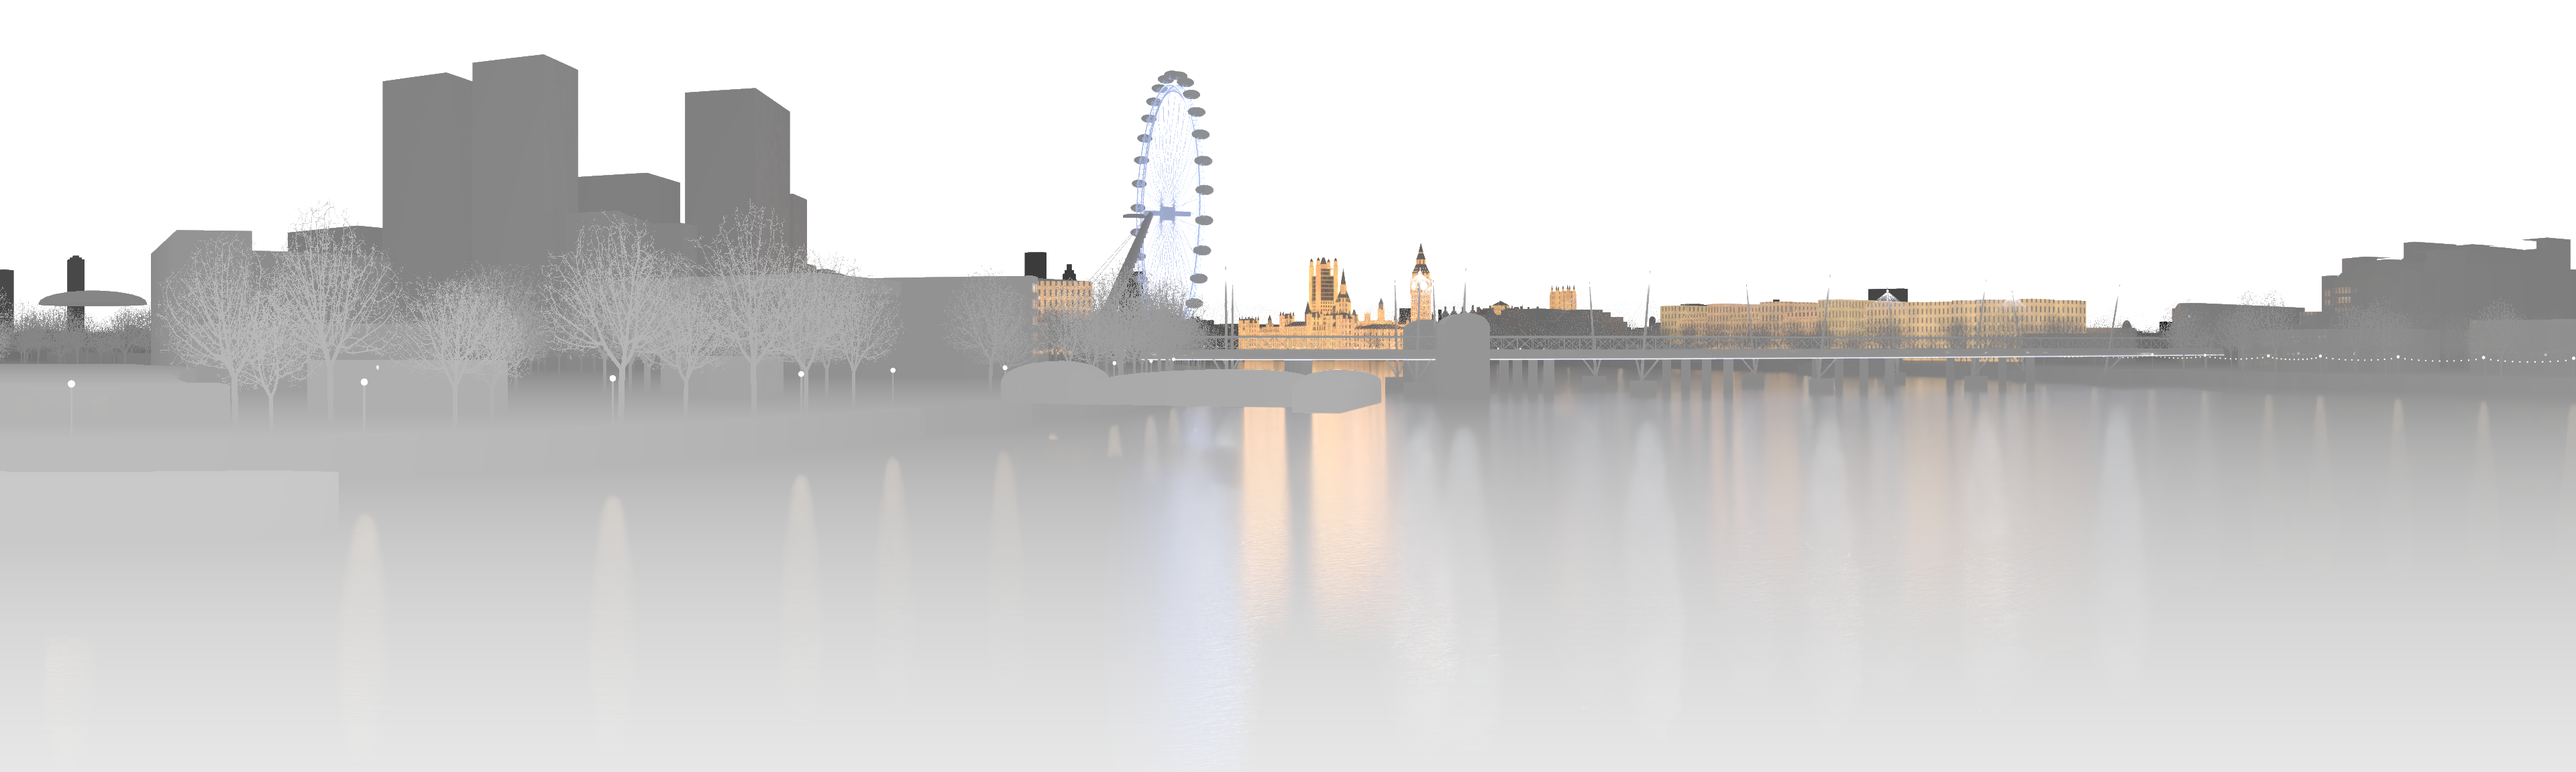
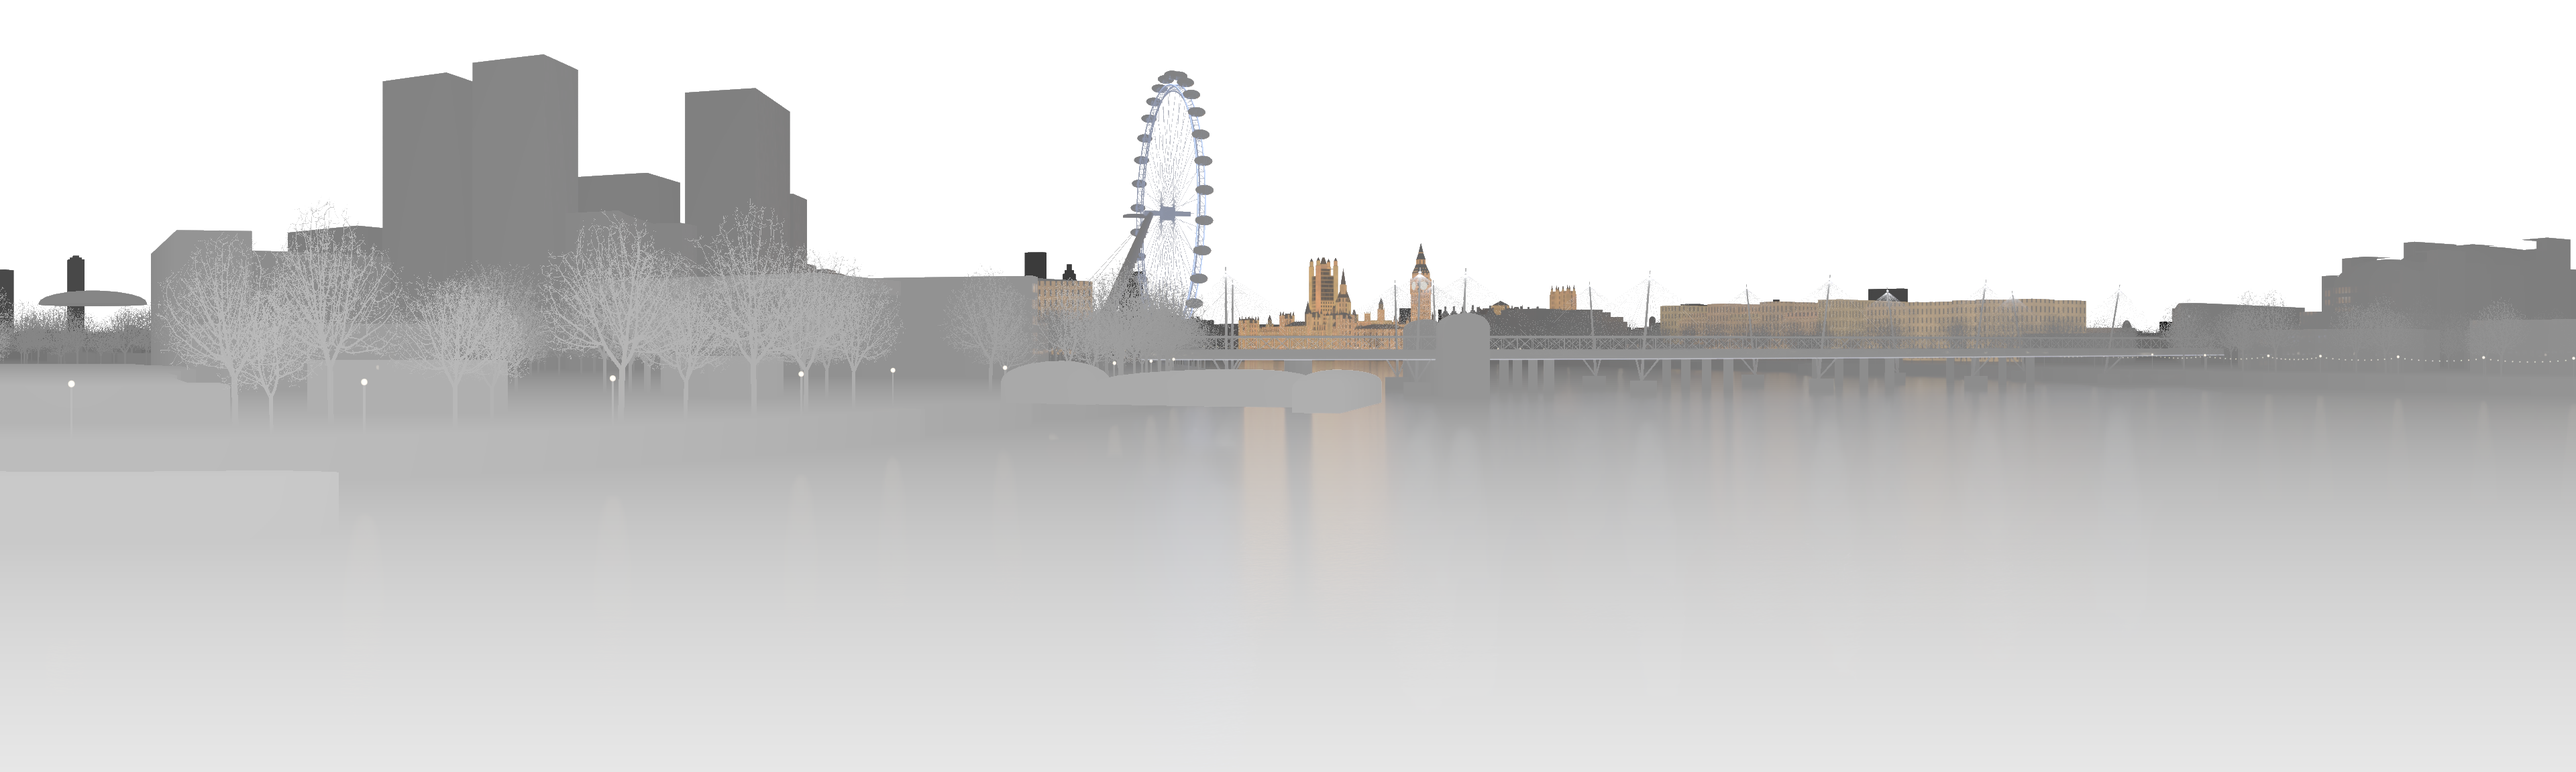
Inside the drop, a normal lens and the city's own falling rain
Fully inside a drop, the city had been drawn at the scene camera's wide
angle, about 80° across on 16:9, which stretched it at the sides. It
now narrows to a normal 55° lens as the dive completes.

When it rains in a city, its drop shows falling streaks at four
distances. Their size and speed come from real drops, their number
follows the live rate, and they are lit by the sky and the city.

The skyline's PNGs were written with RGB divided by alpha, so lights
and windows came out far too bright with black holes. They are now
written as rendered, and the lights retuned.

diff --git a/src/sky/citySky.js b/src/sky/citySky.js
@@ -13,6 +13,10 @@ import { loadStarTexture } from './stars.js'
 // texture and the uniforms its drop reads; set() takes new inputs (src/sky/inputs.js) and the texture
 // is re-rendered only when an input it depends on has changed.
 
+// The cities' own clock, seconds (their falling rain in sky.glsl). Live, not the site's simulated time:
+// the city in a drop goes on when the rain around the drop freezes. Set by the drops each frame.
+export const skyClock = { value: 0 }
+
 // `coefficients`: the atmosphere at the channels' wavelengths (SKY.atmosphere; the lab can swap it).
 export function createSkyGlobals(renderer, { model = createHillaire, coefficients = SKY.atmosphere } = {}) {
   const atmosphereModel = model(renderer, { coefficients })
@@ -25,6 +29,7 @@ export function createSkyGlobals(renderer, { model = createHillaire, coefficient
     uSkyCloudNoise: { value: null },
     uSkyCityShape: { value: new THREE.Vector3(glow.horizon, glow.cloud, glow.ground) },
     uSkyCityMottle: { value: glow.mottle ?? 0 },
+    uSkyTime: skyClock,
   }
   const globals = {
     atmosphere: atmosphereModel,
@@ -107,6 +112,7 @@ export class CitySky {
       uSkyCloudOffset: { value: new THREE.Vector2() },
       uSkyCityGlow: { value: new THREE.Vector3() },
       uSkyHaze: { value: 0 },
+      uSkyRain: { value: 0 },
       uSkyPreExposure: { value: 1 },
       uSkyMeter: { value: new THREE.Vector3(SKY.exposure.key, SKY.exposure.ref, SKY.exposure.range) },
       uSkylineLight: { value: NO_SKYLINE },
@@ -163,14 +169,15 @@ export class CitySky {
     u.uSkyCityGlow.value.fromArray(inputs.cityGlow)
     u.uSkyPreExposure.value = inputs.exposure
     u.uSkylineLit.value.set(1 - inputs.windows.late, inputs.windows.late, inputs.windows.dark)
-    this.setWeather(inputs.clouds, inputs.haze)
+    this.setWeather(inputs.clouds, inputs.haze, inputs.rain)
   }
 
-  // Weather only (cloud deck and haze): the site eases these between readings, so a new reading never
-  // cuts. Never re-renders the texture, which does not depend on weather.
-  setWeather({ cover, tau, baseKm, tileKm }, haze) {
+  // Weather only (cloud deck, haze, rain): the site eases these between readings, so a new reading
+  // never cuts. Never re-renders the texture, which does not depend on weather.
+  setWeather({ cover, tau, baseKm, tileKm }, haze, rain = 0) {
     this.uniforms.uSkyCloud.value.set(cover, tau, baseKm, tileKm)
     this.uniforms.uSkyHaze.value = haze
+    this.uniforms.uSkyRain.value = rain
   }
 
   render(renderer) {

diff --git a/src/scenes/HeroDrop.jsx b/src/scenes/HeroDrop.jsx
@@ -1,13 +1,14 @@
 import { useEffect, useMemo, useRef } from 'react'
 import { useFrame } from '@react-three/fiber'
 import * as THREE from 'three'
-import { HERO, RAIN } from '../config.js'
+import { DIVE, HERO, RAIN } from '../config.js'
 import { getSlot } from '../content/videoManager.js'
 import { rig } from '../core/rig.js'
 import { globalUniforms } from '../core/uniforms.js'
 import envChunk from '../shaders/env.glsl?raw'
 import { envUniforms } from '../content/backdrop.js'
 import dropFrag from '../shaders/drop.frag.glsl?raw'
+import { skyClock } from '../sky/citySky.js'
 
 const vertexShader = /* glsl */ `
 varying vec3 vWorld;
@@ -58,6 +59,7 @@ export function createDropMaterial({ radius = HERO.radius, dispersion = true, sk
       uNear: { value: new THREE.Vector2(...HERO.near) },
       uDive: { value: 0 },
       uCoverTan: { value: new THREE.Vector2(1, 1) },
+      uDiveZoom: { value: 1 },
       // Shared by reference, so the drop hides and fades exactly as the rain does (drop.frag.glsl).
       uTimeScale: globalUniforms.uTimeScale,
       uFocus: globalUniforms.uFocus,
@@ -81,6 +83,14 @@ function coverTan(camera, out) {
   if (camera.aspect > CLIP_ASPECT) out.set(tx, tx / CLIP_ASPECT)
   else out.set(ty * CLIP_ASPECT, ty)
   out.multiplyScalar(COVER_MARGIN)
+}
+
+// Sky content inside the drop: how much to narrow the camera's view so its wider side spans a normal
+// lens's DIVE.viewFov (never widened).
+function diveZoom(camera) {
+  const ty = Math.tan(THREE.MathUtils.degToRad(camera.fov / 2))
+  const wide = ty * Math.max(camera.aspect, 1)
+  return Math.min(1, Math.tan(THREE.MathUtils.degToRad(DIVE.viewFov / 2)) / wide)
 }
 
 // One hero drop. `poster` + `rect`: its cell in the poster atlas. The video budget manager's record
@@ -126,8 +136,12 @@ export default function HeroDrop({
     }
     if (dive) {
       u.uDive.value = rig.dive
-      if (rig.dive > 0) coverTan(camera, u.uCoverTan.value)
+      if (rig.dive > 0) {
+        coverTan(camera, u.uCoverTan.value)
+        u.uDiveZoom.value = diveZoom(camera)
+      }
     }
+    if (sky) skyClock.value = (performance.now() / 1000) % 600 // the city's live rain (sky.glsl cityRain)
     const s = slot ?? (slotKey ? getSlot(slotKey) : null)
     const live = s?.texture ? s.live : 0
     u.uLive.value = live

diff --git a/src/sky/skyManager.js b/src/sky/skyManager.js
@@ -85,11 +85,11 @@ function readInputs() {
     const weather = row && { cloudCover: row.cloudCover, mmPerHour: row.mmPerHour, code: row.code }
     const inputs = skyInputs({ city: CITY[id], date, weather, sky: SKY })
     entry.sky.set(inputs)
-    entry.target = { ...inputs.clouds, haze: inputs.haze }
+    entry.target = { ...inputs.clouds, haze: inputs.haze, rain: inputs.rain }
     // The first real reading is shown as it is (nothing is on screen yet); later ones ease in.
     if (!entry.shown || (!entry.hadRows && rows)) entry.shown = { ...entry.target }
     entry.hadRows = !!rows
-    entry.sky.setWeather(entry.shown, entry.shown.haze)
+    entry.sky.setWeather(entry.shown, entry.shown.haze, entry.shown.rain)
   }
 }
 
@@ -99,13 +99,13 @@ function ease(dt) {
     const { shown, target } = entry
     if (!shown || !target) continue
     let moved = false
-    for (const key of ['cover', 'tau', 'baseKm', 'haze']) {
+    for (const key of ['cover', 'tau', 'baseKm', 'haze', 'rain']) {
       const d = target[key] - shown[key]
       if (Math.abs(d) < 1e-4) continue
       shown[key] += d * k
       moved = true
     }
-    if (moved) entry.sky.setWeather(shown, shown.haze)
+    if (moved) entry.sky.setWeather(shown, shown.haze, shown.rain)
   }
 }
 

diff --git a/src/config.js b/src/config.js
@@ -302,6 +302,9 @@ export const DIVE = {
   typeOut: 10.45,
   outStart: 10.6,
   outEnd: 11.3,
+  // Inside the drop the city shows through a normal lens: this many degrees across the screen's wider
+  // side (a 35 mm lens on full frame), not the scene camera's wide angle, which stretches the edges.
+  viewFov: 55,
 }
 
 // Sky in a drop (provisional, lab only: /?lab=drop). Each city's real sky, computed from the sun,
@@ -354,7 +357,7 @@ export const SKY = {
   // and of its lit windows (display-referred, after the sky's exposure: a real window, a hundred times
   // brighter than a city's night sky, would blow the skyline out); `hazePerKm`: how fast distant
   // buildings fade into the light around them (plus rain or fog).
-  skyline: { url: 'skyline/', lights: 0.18, windows: 0.22, hazePerKm: 0.12 },
+  skyline: { url: 'skyline/', lights: 0.3, windows: 0.3, hazePerKm: 0.12 },
 }
 
 // Sound. Every sound is synthesized until a licensed file fills its slot (paths under public/).

diff --git a/scripts/blender/encode.py b/scripts/blender/encode.py
@@ -65,7 +65,12 @@ def write(path, rgb, a):
     out = np.concatenate([srgb(rgb), np.clip(a, 0, 1)[..., None]], axis=-1)
     out = (out * 255 + 0.5).astype(np.uint8)
     o = oiio.ImageOutput.create(path)
-    o.open(path, oiio.ImageSpec(out.shape[1], out.shape[0], 4, 'uint8'))
+    spec = oiio.ImageSpec(out.shape[1], out.shape[0], 4, 'uint8')
+    # Write the numbers as they are. PNG's alpha is "unassociated", so OIIO would otherwise divide RGB by
+    # alpha on the way out; these alphas are coverage or data (distance, the late share), and RGB is
+    # meant premultiplied by coverage.
+    spec.attribute('oiio:UnassociatedAlpha', 1)
+    o.open(path, spec)
     o.write_image(out)
     o.close()
     print('→', path, f'{os.path.getsize(path) / 1e6:.1f} MB')

diff --git a/DECISIONS.md b/DECISIONS.md
@@ -338,3 +338,9 @@ Still provisional:
 - Seasons (user's choice): trees in leaf April to November, bare December to March, one set of images each (src/sky/skylineVariant.js, tested).
 - Performance, flagged: London's images are about 7 MB a season to download (was 44 KB), and its three textures take about 70 MB of GPU memory with mips (was 4.9 MB). Fine on a desktop; too much for many phones. A half-resolution set for the low tier is the obvious next step (to decide).
 - Checked in the lab at night, dusk and midday, raining and clear, drift and dive (London's drop, in-leaf set); the reference comparisons and previews were sent to the user. npm test 77/77, smoke 5/5; bundle 1,518.8 kB.
+
+## 2026-09-30 — Inside the drop: a normal lens, and the city's rain falls
+- User: fully inside London's drop, the view was distorted at the sides and top; they want a completely normal view there. At rig.dive = 1 the drop is already a plain window, but the scene camera's 50° vertical view is about 80° across at 16:9 (more on wider screens), and a rectilinear view that wide stretches the city at the edges and corners. Sky content now narrows to a normal lens's view as the dive completes: 55° across the screen's wider side (DIVE.viewFov, a 35 mm lens on full frame), still a plain perspective (a zoom in the image plane, drop.frag.glsl `behind`), never widened on narrow screens. Footage framing is unchanged.
+- User: they want to see actual rain when it rains, not only the sound and a misted city. sky.glsl `cityRain`: streaks at 2, 4, 8 and 16 m, each as long as a drop falling at 6.5 m/s travels in 1/60 s, and wider and fainter near (out of focus). The share of streaks follows the live rain rate, eased between readings (0.22 × (mm/h)^0.5, at least 0.12 so drizzle shows). They are lit by the light around the horizon, and by the city's glow at night, when they show best. They are drawn in every city drop's sky while it rains there. Their clock is live wall time (citySky.js skyClock), an exception to "shaders animate with uSimTime": the city in the drop goes on while the rain around the drop is frozen.
+- A bug in the previous commit, found on the way: OpenImageIO's PNG writer divides RGB by alpha (PNG stores unassociated alpha). The skyline textures' alphas are coverage or data, so lights and windows were written far too bright, saturating to white, with black holes where the late share was 0 (the black-cored reflections). encode.py now writes the values as they are (oiio:UnassociatedAlpha). With the true values, the on-screen gains are lights 0.3 and windows 0.3 (were 0.18 and 0.22, set on the wrong data).
+- Checked at the dive (?dive=london, 9.0 to 10.2) and in the lab at night, dusk and midday, raining and clear. npm test 77/77, smoke 5/5; bundle 1,522.7 kB.
